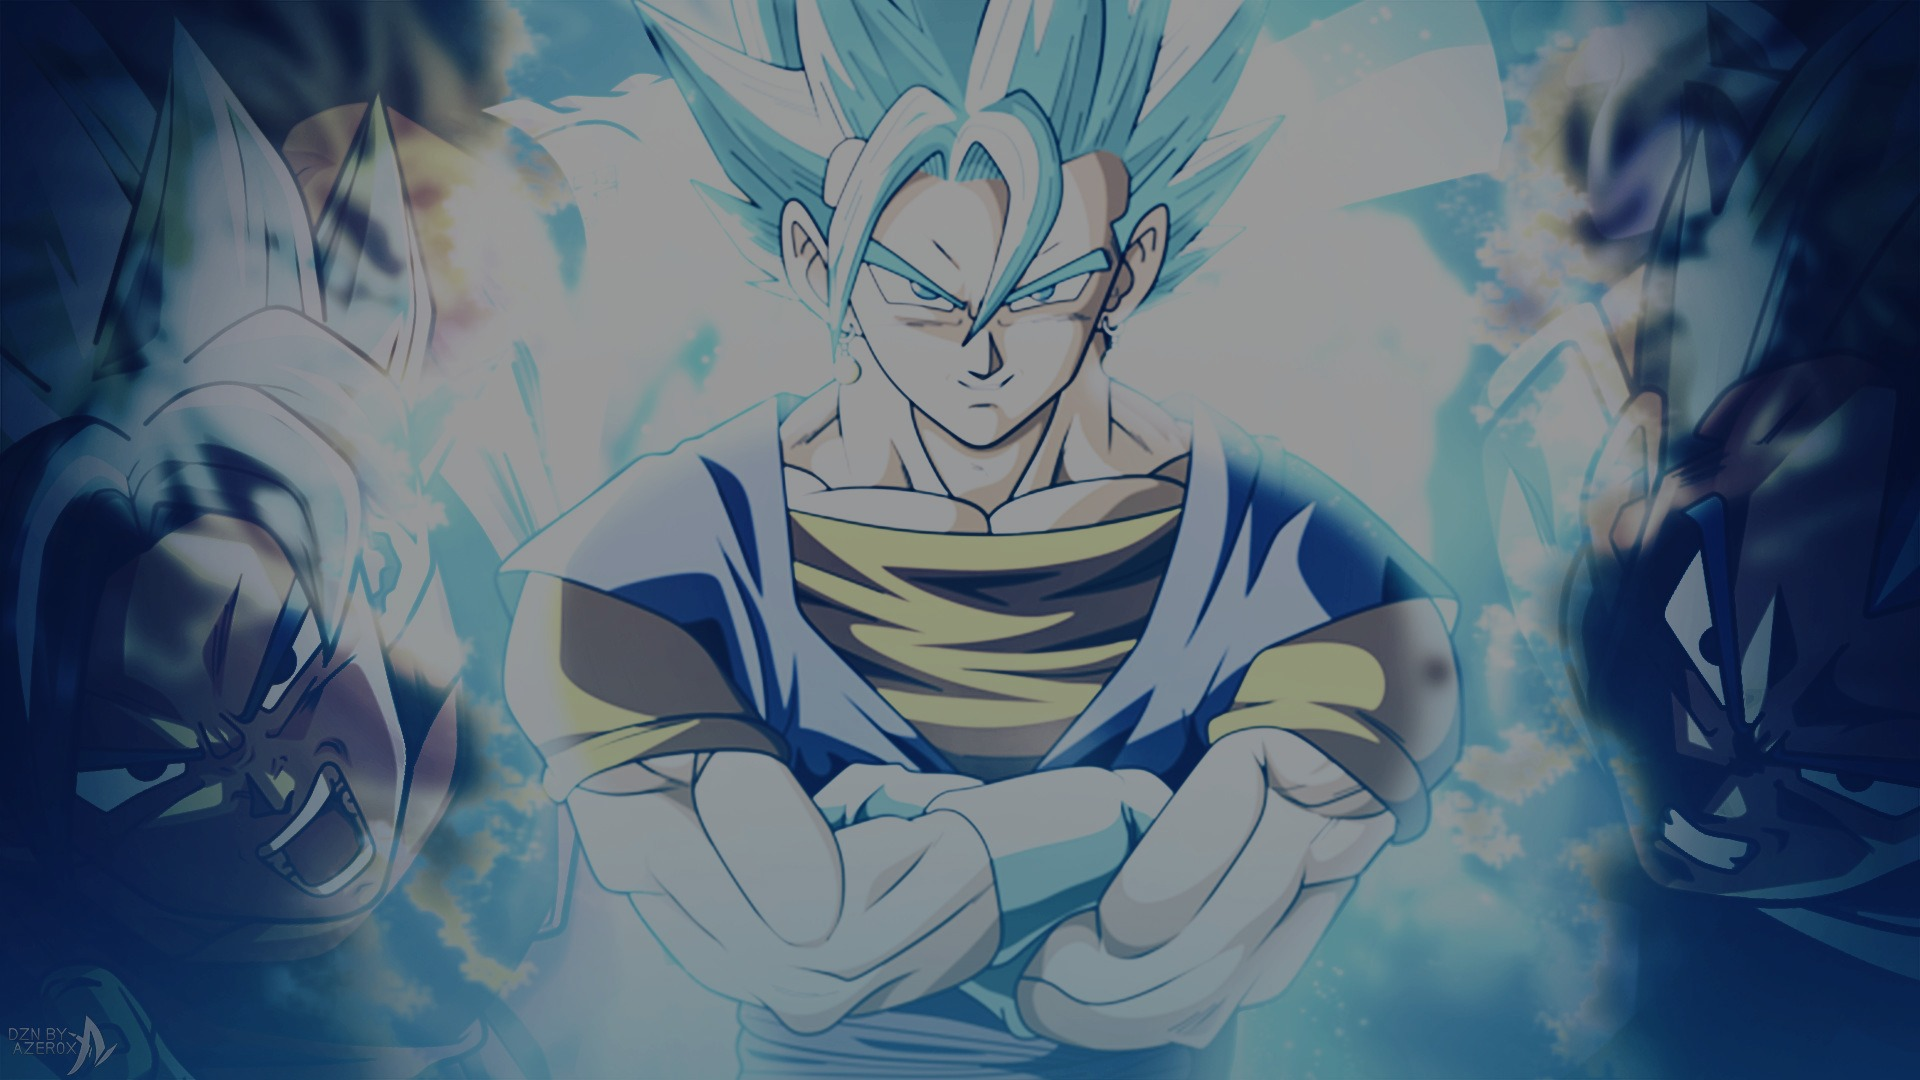
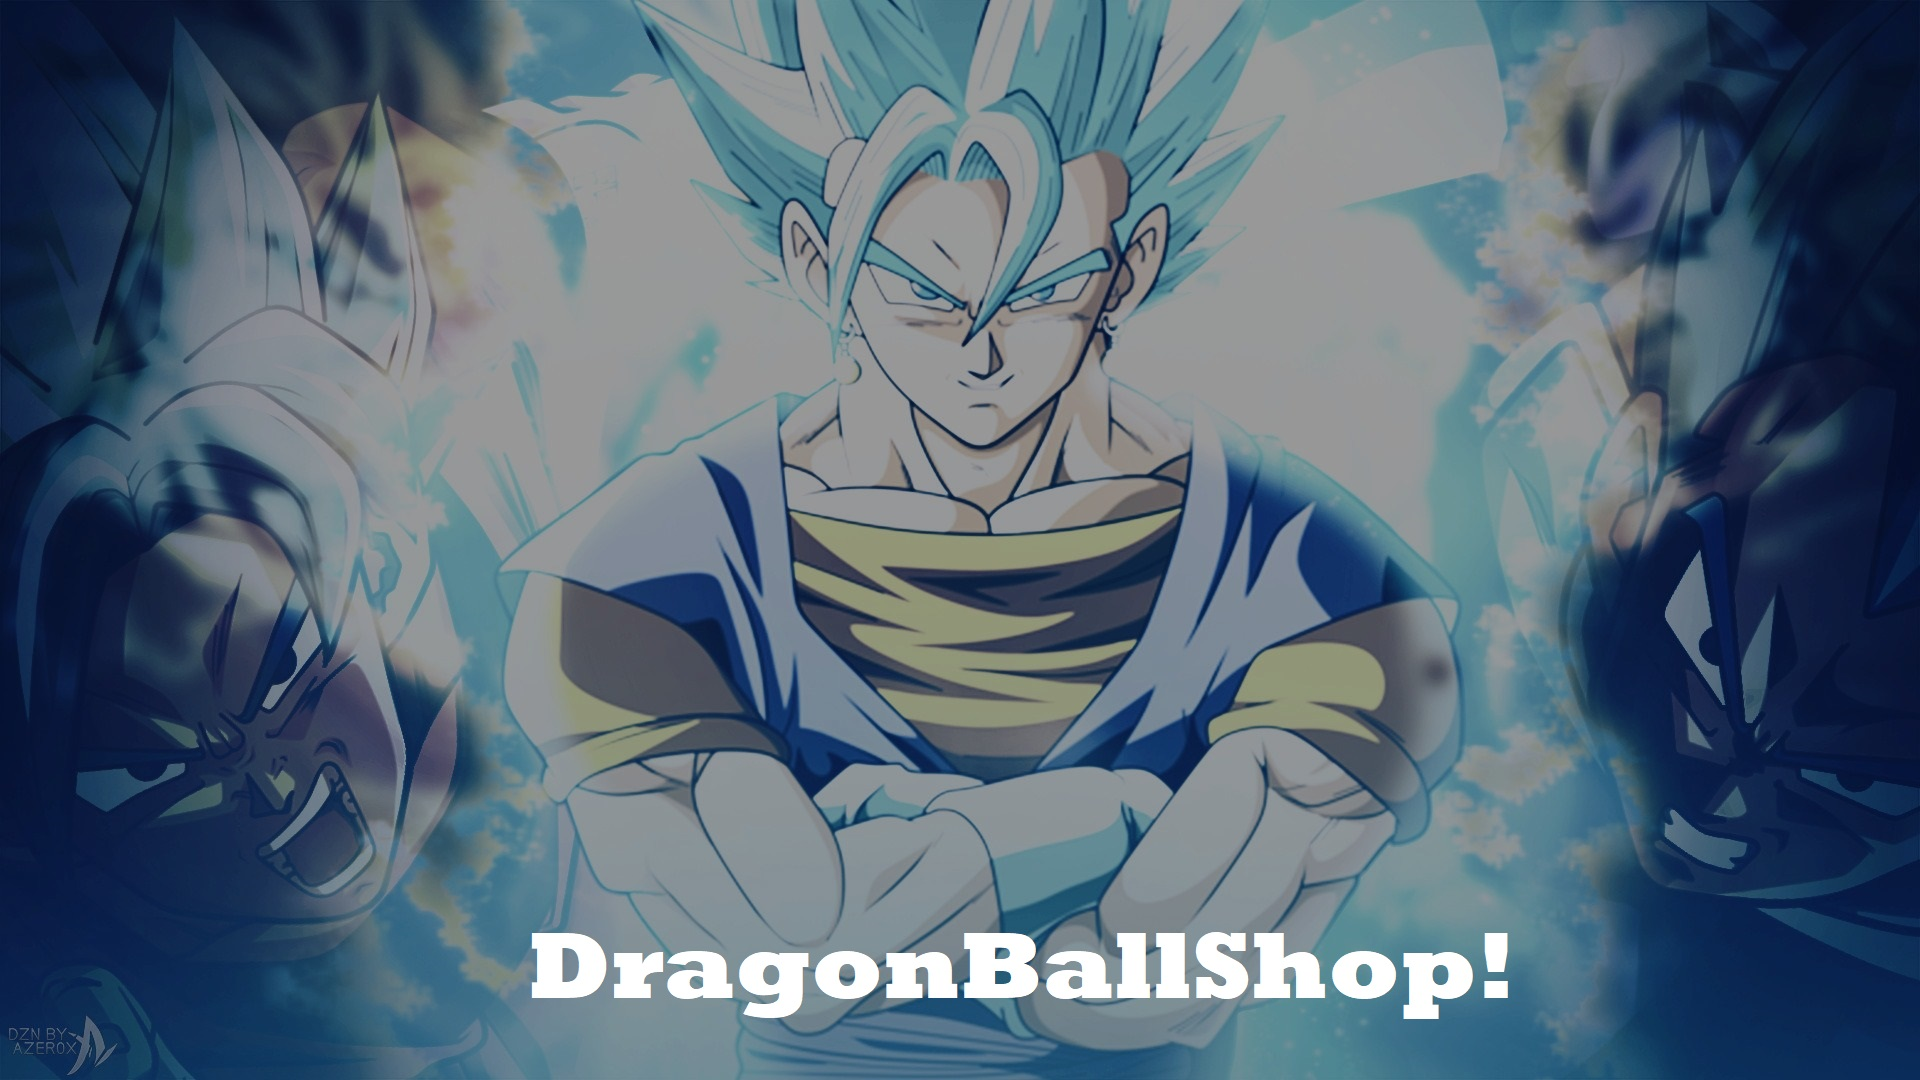
Boton vaciar carrito listo

Changed region(s): [[0.2812, 0.8556, 0.7812, 0.9472]]

diff --git a/public/css/estilos.css b/public/css/estilos.css
@@ -1,8 +1,12 @@
 body{
-    background-image: url("../img/disenio/fondo.jpg"); 
+    background-color: #E8E8E8;
 }
 .carro{
     opacity: 0.4;
+}
+.thead{
+    background: #239AD4;
+    color: whitesmoke;
 }
 .btn-add{
     background: #00C4CC;

diff --git a/resources/views/plantilla-base.blade.php b/resources/views/plantilla-base.blade.php
@@ -6,16 +6,17 @@
     <meta http-equiv="X-UA-Compatible" content="ie=edge">
     <title>Document</title>
     <link rel="stylesheet" href="{{ asset('bootstrap/css/bootstrap.min.css') }}">
+    <link rel="stylesheet" href="{{ asset('data-tables/datatables.css') }}">
     <link rel="stylesheet" href="{{ asset('fontawesome-free/css/all.css') }}">
     <link rel="stylesheet" href="{{ asset('css/estilos.css') }}">
     <link rel="stylesheet" href="{{ asset('sweetalert2/dist/sweetalert2.min.css') }}">
     <link rel="stylesheet" href="{{ asset('efecto_zoom/wm-zoom/jquery.wm-zoom-1.0.min.css') }}">
-    <link rel="stylesheet" href="{{ asset('data-tables/datatables.css') }}">
+    
 </head>
 <body class="cuerpo">
     <!-- Menu de navegacion -->
 <nav class="navbar navbar-expand-lg navbar-dark fixed-top d-flex">
-        <a class="navbar-brand" href="#"> FanAnime </a>
+        <a class="navbar-brand" href="#"><i class="fas fa-dragon"></i> DragonBallShop! </a>
           <button class="navbar-toggler" type="button" data-toggle="collapse" data-target="#navbarNavDropdown" aria-controls="navbarNavDropdown" aria-expanded="false" aria-label="Toggle navigation">
           <span class="navbar-toggler-icon"></span>
           </button>
@@ -24,13 +25,14 @@
           <li class="nav-item active">
             <a class="nav-link" href="{{ route("dragon-ball") }}"><i class="fas fa-home"></i>Inicio <span class="sr-only">(current)</span></a>
           </li>
-          <li class="nav-item">
+          <li class="nav-item active">
             <a class="nav-link" href="#modalCanva" data-toggle="modal"><i class="fas fa-comments-dollar"></i>Ofertas</a>
           </li>
-          <li class="nav-item">
-            <a class="nav-link" href="{{ route('verCarro') }}"> <i class="fas fa-shopping-cart"></i> ver carrito</a>
+          <li class="nav-item active">
+             
+            <a class="nav-link" href="{{ route('verCarro') }}"> <i class="fas fa-shopping-cart"></i> {{ $suma}} ver carrito</a>
           </li>
-          <li class="nav-item dropdown">
+          <li class="nav-item active dropdown">
             <a class="nav-link dropdown-toggle" href="#" id="navbarDropdown" role="button" data-toggle="dropdown" aria-haspopup="true" aria-expanded="false">
               Mercancia
             </a>
@@ -43,8 +45,6 @@
           </li>
         </ul>
       </div>
-      
-      
     </nav>
           
               <br><br>
@@ -65,11 +65,12 @@
         </div>
       </footer>
       @include('modalCanva')
-    <script src="../bootstrap/js/jquery.js"></script>
-    <script src="../bootstrap/js/bootstrap.min.js"></script>
-    <script src="../fontawesome-free/js/all.js"></script>
+    <script src="{{ asset('bootstrap/js/jquery.js') }}"></script>
+    <script src="{{ asset('bootstrap/js/bootstrap.min.js') }}"></script>
+    <script src="{{ asset('data-tables/datatables.min.js') }}"></script>
+    <script src="{{ asset('fontawesome-free/js/all.js') }}"></script>
     <script src="../sweetalert2/dist/sweetalert2.all.js"></script>
-    <script src="../data-tables/datatables.js"></script>
+   
   </body>
 </html>
 @yield('codigoJs')

diff --git a/resources/views/registros.blade.php b/resources/views/registros.blade.php
@@ -4,14 +4,14 @@
 <div class="container-fluid">
 <div class="row d-flex justify-content-center">
 <div class="col-md-11">
-    <button class="btn btn-danger"> <i class="fas fa-trash-alt"></i> Vaciar carrito </button>
-    <button class="btn btn-pagar"> <i class="fas fa-money-bill-wave"></i> Realizar compra </button>
+    <a href="{{ route('eliminarTodo') }}" class="btn btn-danger"> <i class="fas fa-trash-alt"></i> Vaciar Carrito </a>
+    <button class="btn btn-info"> <i class="fas fa-money-bill-wave"></i> Realizar compra </button>
     
     <hr>
     <h3> Total a pagar: ${{ $query2 }}</h3>
     <hr>
 <table class="table table-hover" id="tablePro">
-        <thead class="thead-dark">
+        <thead class="thead">
             <tr>
                 <th> Codigo </th>
                 <th> Nombre </th>
@@ -61,6 +61,24 @@
 @endsection
 @section('codigoJs')
     <script>
-        $('#tablePro').DataTable();
+        $('#tablePro').DataTable({"language": {
+		"decimal": "",
+		"emptyTable": "No hay información",
+		"info": "Mostrando _START_ a _END_ de _TOTAL_ Productos",
+		"infoEmpty": "Mostrando 0 to 0 of 0 Registros",
+		"infoFiltered": "(Filtrado de _MAX_ total entradas)",
+		"lengthMenu": "Mostrar _MENU_ Registros",
+		"search": "<i class='fas fa-search'></i> Buscar producto:",
+		"zeroRecords": "No se encontraron registros",
+		"paginate": {
+			"first": "Primero",
+			"last": "Ultimo",
+			"next": "Siguiente",
+			"previous": "Anterior"
+		}
+	}});
+
+
+    
     </script>
 @endsection

diff --git a/routes/web.php b/routes/web.php
@@ -1,5 +1,4 @@
 <?php
-
 /*
 |--------------------------------------------------------------------------
 | Web Routes
@@ -10,13 +9,12 @@
 | contains the "web" middleware group. Now create something great!
 |
 */
-
+//RUTAS PARA VER LAS VISTAS
 Route::get('/', function () {
     return view('plantilla-base');
 })->name('inicio');
 
 Route::get('/dragon_ball','CarroController@index')->name('dragon-ball');
-
 
 Route::resource('carros','CarroController');
 
@@ -24,9 +22,9 @@ Route::get('/cuadro1',function(){
     return view('dragon-ball.cuadro1');
 })->name('cuadro1');
 
-Route::get('/cuadro2',function(){
-    return view('dragon-ball.cuadro2');
-})->name('cuadro2');
+
+//RUTAS PARA EL CRUD
+
 
 Route::get('/carrito/{codigo}/{nombre}/{descripcion}/{precio}/{cantidad}/{subtotal}','CarroController@actualizar')->name('update');
 
@@ -34,7 +32,7 @@ Route::get('/dragon_ball/{codigo}','ProductoController@prueba')->name('ruta');
 
 Route::get('/{codigo}/{nombre}/{descripcion}/{precio}/{cantidad}','CarroController@guardar')->name('envio');
 
-
+Route::get('/carrito/delete','CarroController@deleteAll')->name('eliminarTodo');
 
 Route::get('/carrito','CarroController@mostrar')->name('verCarro');
 

diff --git a/app/Http/Controllers/CarroController.php b/app/Http/Controllers/CarroController.php
@@ -15,8 +15,7 @@ class CarroController extends Controller
      */
     public function index()
     {
-        $suma = Carro::sum('cantidad');
-        return view('dragon-ball.dragonBall',compact('suma'));
+        return view('dragon-ball.dragonBall');
     }
 
     //ELIMINA EL PRODUCTO CON EL CODIGO QUE TIENE DE PARAMETRO
@@ -33,6 +32,17 @@ class CarroController extends Controller
         $query = Carro::all();
         $query2 = Carro::sum('subTotal');
         return view('registros',compact('query'),compact('query2'));
+    }
+
+    public function deleteAll()
+    {
+        $query = Carro::all();
+        foreach ($query as $pro) 
+           { 
+               Carro::destroy($pro->id);
+           }
+        return redirect()->route('verCarro');
+
     }
 
     public function actualizar($code,$name,$description,$price,$cantidad,$subtot)
@@ -58,7 +68,7 @@ class CarroController extends Controller
         $car->cantidad = $cantidad;
         $car->subTotal = $price;
         $car->save();
-        return redirect()->route('ruta',$code);
+        return redirect()->route('verCarro');
     }
 
 

diff --git a/app/Providers/AppServiceProvider.php b/app/Providers/AppServiceProvider.php
@@ -1,9 +1,10 @@
 <?php
 
 namespace App\Providers;
-
+use App\Carro;
 use Illuminate\Support\ServiceProvider;
 use Illuminate\Support\Facades\Schema;
+use Illuminate\Support\Facades\View;
 class AppServiceProvider extends ServiceProvider
 {
     /**
@@ -23,6 +24,7 @@ class AppServiceProvider extends ServiceProvider
      */
     public function boot()
     {
-        //
+        $suma = Carro::sum('cantidad');
+        View::share('suma',$suma);
     }
 }

diff --git a/resources/views/modalCanva.blade.php b/resources/views/modalCanva.blade.php
@@ -10,10 +10,6 @@
         <div class="modal-body">
           <img src="{{ asset('img/disenio/FanAnime!.png') }}" alt="">
         </div>
-        <div class="modal-footer">
-          <button type="button" class="btn btn-secondary" data-dismiss="modal">Close</button>
-          <button type="button" class="btn btn-primary">Agregar al carrito</button>
-        </div>
       </div>
     </div>
   </div>

diff --git a/resources/views/dragon-ball/dragonBall.blade.php b/resources/views/dragon-ball/dragonBall.blade.php
@@ -1,9 +1,7 @@
 @extends('plantilla-base')
 
 @section('content')
-        <br>
-        <br>
-        <h3> Tienes un total de {{ $suma }} productos en tu carrito <i class="fas fa-shopping-cart"></i></h3> 
+        <br> 
     <div class="container-fluid fondoGoku">
         <div class="row">
                 <div class="col-md-12 d-flex justify-content-center">
